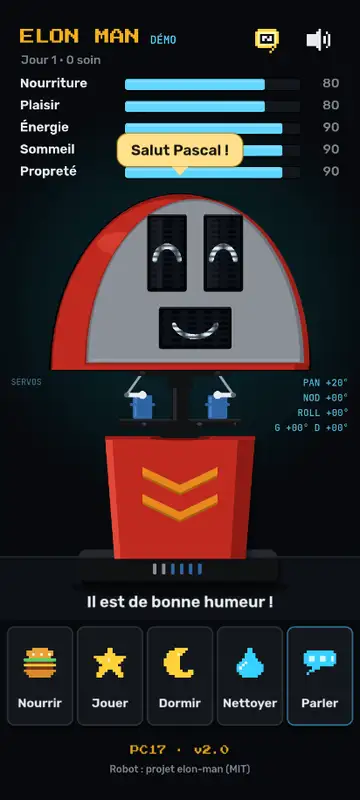
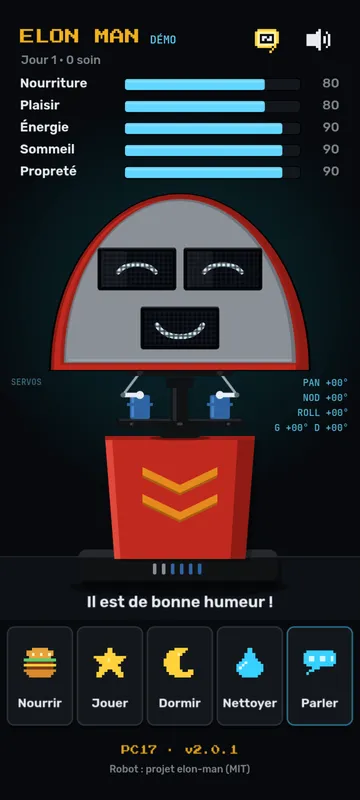
1.3.10 : capture Tamagotchi Elon Man 2.0.1 (visage horizontal), carte version 2.0.1

diff --git a/sw.js b/sw.js
@@ -1,6 +1,6 @@
 // Service worker du portail. Il ne touche QUE les fichiers du portail (liste exacte).
 // Tout le reste (ex. /test-qi/, /wifi-radar/) passe au réseau sans être intercepté.
-const VERSION = '1.3.9';
+const VERSION = '1.3.10';
 const CACHE = `portail-${VERSION}`;
 const SHELL = ['/', '/index.html', '/app.js', '/apps.json', '/manifest.webmanifest',
   '/fonts/young-serif-latin.woff2', '/icons/icon-192.png', '/icons/icon-512.png'];

diff --git a/app.js b/app.js
@@ -1,5 +1,5 @@
 // Portail PassCool — rendu des cartes depuis apps.json (aucune étape de build)
-export const VERSION = '1.3.9';
+export const VERSION = '1.3.10';
 
 const FILTRES = [
   { id: 'tout', label: 'Tout' },

diff --git a/README.md b/README.md
@@ -6,7 +6,7 @@ Le portail de PassCool : tous ses jeux et apps publiés sur GitHub Pages, ses mo
 
 ## État
 
-Version **1.3.9** (25 nov. 2026 : Tamagotchi Elon Man 2.0 en ESP32, Prototype v1 dans Prototypes). HTML, CSS et JavaScript simples, aucune étape de build. Le CSS est **dans `index.html`** (balise `<style>`) : il n’y a plus de `styles.css`. PWA installable ; fonctionne hors ligne après la première visite.
+Version **1.3.10** (25 nov. 2026 : capture Tamagotchi Elon Man 2.0.1, visage 3 écrans à l'horizontale). HTML, CSS et JavaScript simples, aucune étape de build. Le CSS est **dans `index.html`** (balise `<style>`) : il n’y a plus de `styles.css`. PWA installable ; fonctionne hors ligne après la première visite.
 
 ## Ce qu’il y a
 
@@ -84,6 +84,10 @@ Le portail est à la racine de `passcool17.github.io`, donc son service worker a
 5. Accessibilité : nom du logo « PassCool – retour en haut », étiquettes à 6 px de marge.
 6. Héros : « Salut, c’est PassCool. », phrase personnelle, plus de numéros de section, les 3 captures ouvrent leur jeu.
 7. PWA : raccourcis, captures du manifeste, bouton « Installer l’app ».
+
+## Changements 1.3.10
+
+- Carte ESP32 Tamagotchi Elon Man : version 2.0.1, nouvelle capture (`shots/tamagotchi-elon-man.webp`, visage v2.0.1).
 
 ## Changements 1.3.9
 
